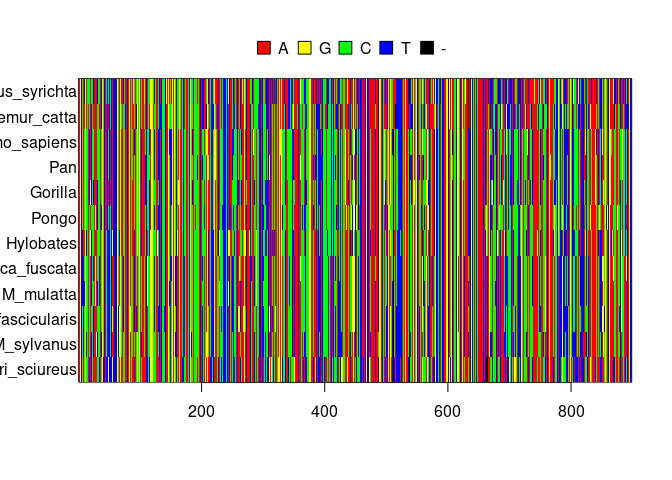
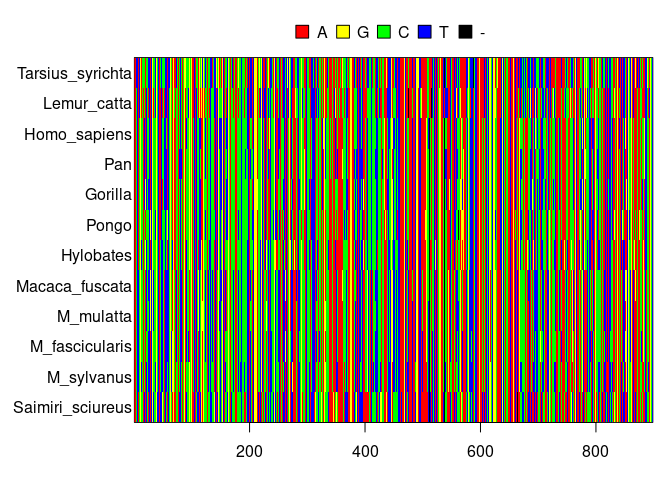
Process feedback, thanks @steffilazerte, progress at #87

diff --git a/content/blog/2020-11-07-mcbette-selecting-the-best-inference-model/index.md b/content/blog/2020-11-07-mcbette-selecting-the-best-inference-model/index.md
@@ -77,10 +77,14 @@ but 'only' 898 nucleotides. Here I show the DNA sequences:
 
 ```r 
 library(ape)
+par0 <- par(mar = c(3, 7, 3, 1))
 dna_sequences <- read.FASTA(fasta_filename)
 image.DNAbin(dna_sequences, mar = c(3, 7, 3, 1))
 ```
 {{<figure src="show_alignment-1.png" alt="DNA alignment of primates" caption="DNA alignment of primates" width="600">}}
+```r 
+par(par0)
+```
 
 From this DNA alignment, we can use the R package babette [^2][^3]
 to estimate the evolutionary history of these species.
@@ -190,12 +194,13 @@ We must modify our inference model first, to prepare them for model
 comparison:
 
 ```r 
-default_model$mcmc <- create_ns_mcmc(particle_count = 256)
-competing_model$mcmc <- create_ns_mcmc(particle_count = 256)
+default_model$mcmc <- create_ns_mcmc(particle_count = 16)
+competing_model$mcmc <- create_ns_mcmc(particle_count = 16)
 ```
 
 Increasing the number of particles improves the accuracy of the marginal
-likelihood estimation.
+likelihood estimation. Because this accuracy is also estimated,
+we can also see how strongly to believe a model is better.
 
 Now, we load mcbette, 'Model Comparison using babette' to do our 
 model comparison:
@@ -239,9 +244,9 @@ by plotting the estimated marginal likelihoods
 and the error in this estimation:
 
 ```r 
-plot_marg_liks(marg_liks)
+plot_marg_liks(marg_liks) 
 ```
-{{<figure src="unnamed-chunk-1-1.png" alt="the estimated marginal likelihoods" caption="the estimated marginal likelihoods" width="300">}}
+{{<figure src="unnamed-chunk-1-1.png" alt="the estimated marginal likelihoods" caption="the estimated marginal likelihoods" width="600">}}
 
 Note that marginal likelihoods can be very close to zero. 
 Hence, mcbette use log values. The model with the lowest
